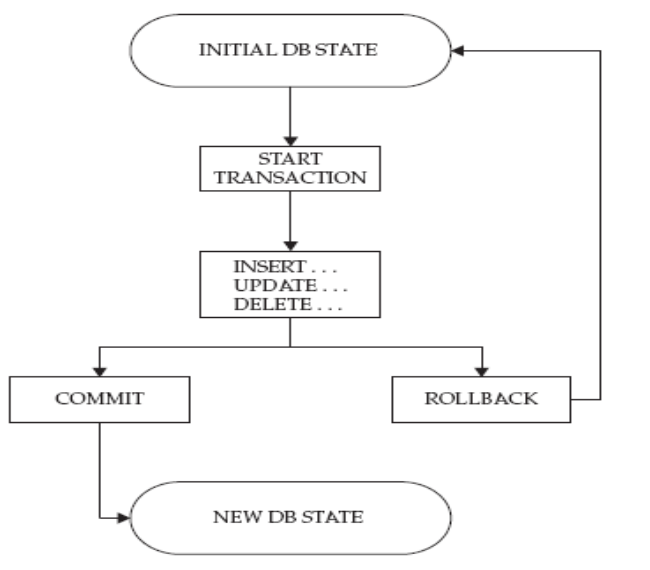
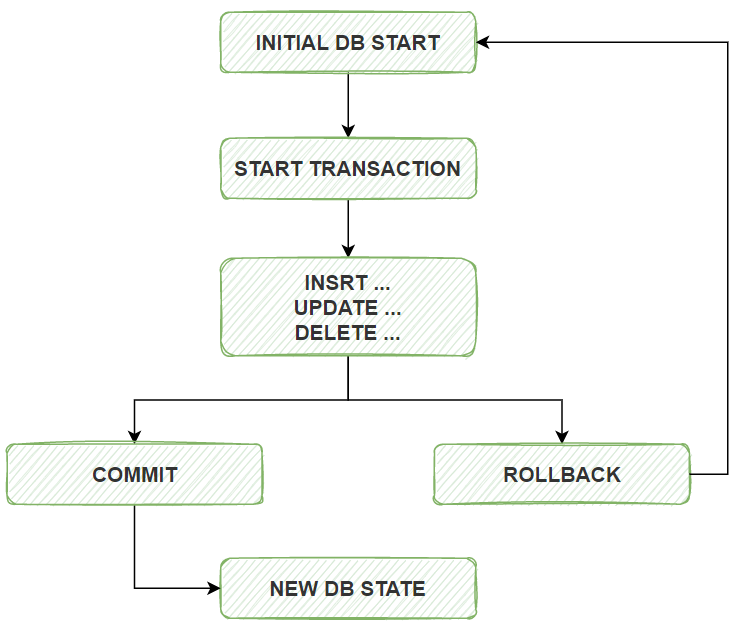
mysql

diff --git a/MySQL/MySQL/4.MySQL性能优化和日志管理.md b/MySQL/MySQL/4.MySQL性能优化和日志管理.md
@@ -83,7 +83,7 @@ index原理
 * D：durability持久性；一旦事务提交，其所做的修改会永久保存于数据库中
 
 <img src="../../images/transaction01.png">
-
+![alt text](image.png)
 ## 显示的事务管理
 ```bash
 begin; #开启事务
